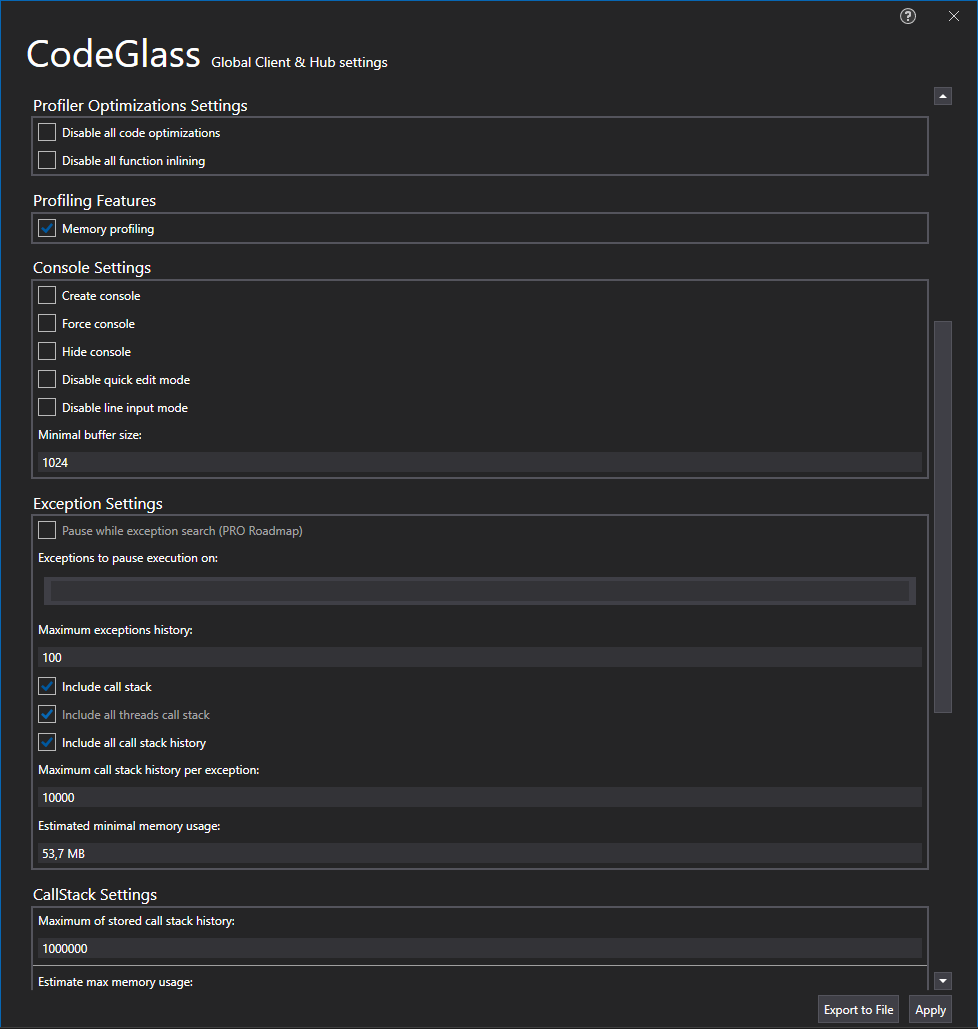
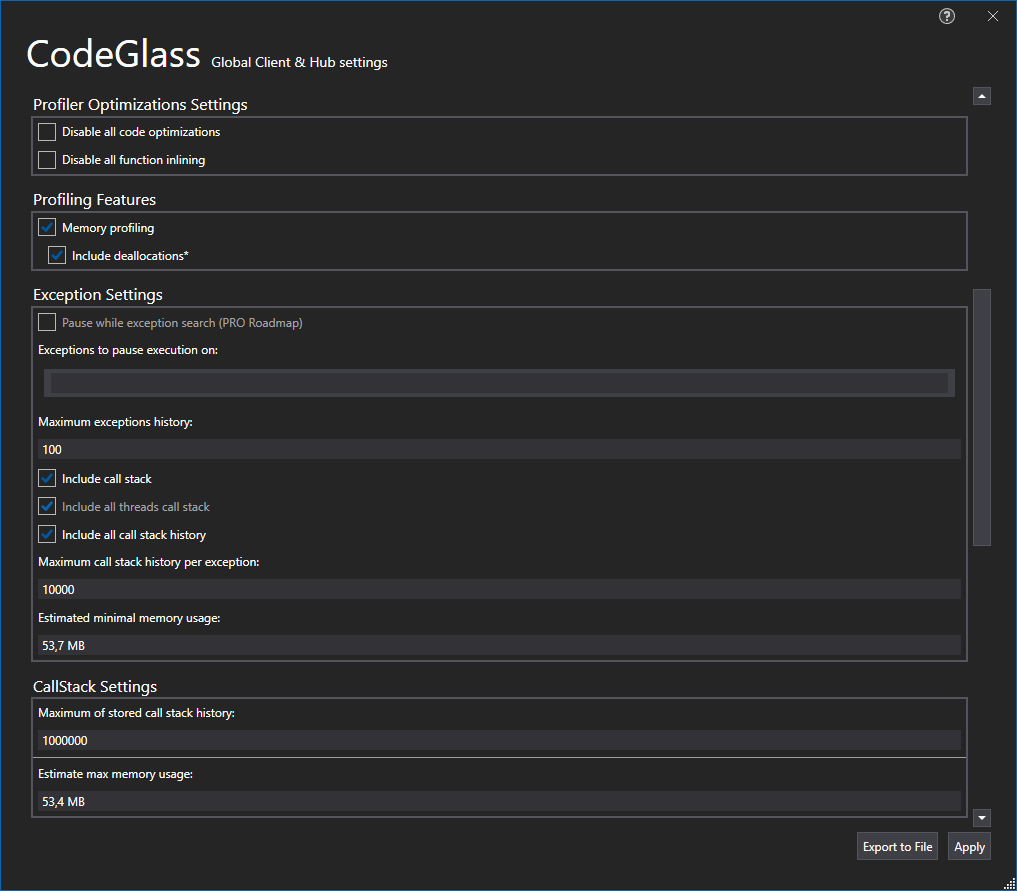
Update for garbage collection optional setting

diff --git a/_docs/views/ApplicationSettingsWindow.md b/_docs/views/ApplicationSettingsWindow.md
@@ -32,15 +32,14 @@ Here you can also tell CodeGlass to pause right away when starting an applicatio
 ## Profiler Optimizations Settings
 In the profiler optimizations settings you can enable or disable compiler optimizations for your application. Disabling optimizations can make it easier to find your code back the way you have written it, and not what the compiler made from it.
 
+## Profiling Features
+In the profiling features settings you can enable or disable memory profiling. When you have memory profiling enabled you also get the option to include deallocations. When this option is enabled CodeGlass will also collect deallocations and start tracking garbage collections. This option is disabled by default as profiling deallocations might disable concurrent garbage collection in some languages and it can have a significant impact on performance.
+
 ## Exception Settings
 In the exception settings you can set what CodeGlass should do when it profiles and exception. When an exception is profiled, CodeGlass stores this exception with some extra data like a (limited) copy of the callstack at that time. Here you can specify what and how much should be stored.
 
 ## Callstack Settings
 In the callstack settings you can specify how many callstack items CodeGlass should store before overwriting older data. CodeGlass considers every call to a function and every return from a function as a separate callstack item. Increasing the amount of callstack items to store allows you to step further back in the history of your application, but it also makes CodeGlass heavier to run. If your application overwrites the callstack too fast, try applying more filters. This way CodeGlass has to store less callstack items.
-
-<!-- # Application Breadcrumbs:  -->
-<!-- - [Splashscreen](Splashscreen.md) / [Main Menu - Applications](mainwindow/application.md) / [Main Menu - Instances](mainwindow/applicationInstance.md) / -->
-<!-- - [Splashscreen](Splashscreen.md) / [Main Menu - Applications](mainwindow/application.md) / [Main Menu - Instances](mainwindow/applicationInstance.md) /  [Application Instance Window](ApplicationInstanceDockWindow.md) / [File Menu](ApplicationInstanceDockWindow/MenuBar.md#file-menu) / -->
 
 # See Also:
  - [Main Menu - Application instances](mainwindow/applicationInstance.md)

diff --git a/_docs/features/RealtimeDataCollection.md b/_docs/features/RealtimeDataCollection.md
@@ -79,7 +79,7 @@ More information about our memory profiler can be found at the [memory profiling
 ![assets/img/ApplicationInstanceWindow/MemoryStatisticsOverview.png](../../assets/img/ApplicationInstanceWindow/MemoryStatisticsOverview.png)
 
 ## Garbage Collection Invocations
-Garbage collection invocations is a new feature in CodeGlass and is still under development. Currently, it is available only as an experimental feature in our [Experimental Edition](../Editions/Experimental.md) and at this point it is only supported by the [Julia runtime](supportedruntimes.md#julia).
+Garbage collection invocations is a new feature in CodeGlass and is still under development. Currently, it is available only as an experimental feature in our [Experimental Edition](../Editions/Experimental.md) and at this point it is only supported by the [Julia](supportedruntimes.md#julia) and [.NET](supportedruntimes.md#net-framework) runtimes.
 
 If your applications creates a lot of memory, garbage collection can take a lot of time and significantly slow your application down. To be able to track these kind of issues down CodeGlass will track every garbage collection that gets triggered by your application. 
 
@@ -89,7 +89,7 @@ We collect various garbage collection related data, including:
 - How much memory was deallocated during this garbage collection.
 - Every object that was deallocated and the function that that piece of memory was originally allocated in.
 
-More information about garbage collection information can be found at the [garbage collection feature page](GarbageCollection)
+More information about garbage collection information can be found at the [garbage collection feature page](GarbageCollection).
 <br>
 
 ![assets/img/ApplicationInstanceWindow/GarbageCollectionInvokedWindow.png](../../assets/img/ApplicationInstanceWindow/GarbageCollectionInvokedWindow.png)

diff --git a/_docs/features/GarbageCollection.md b/_docs/features/GarbageCollection.md
@@ -8,7 +8,7 @@ description: The tracking of every executed garbage collection
 
 This feature allows you to gain insights into what your application does during garbage collection. This can help you track down objects that do not get removed or find objects that get removed to fast.
 
-{% include alert.html  type="warning" title="Limited support" content="At this point the only language to support this feature is Julia, but more will be added soon." %}
+{% include alert.html  type="warning" title="Limited support" content="At this point the only languages to support this feature are Julia and .NET, but more will be added soon." %}
 
 ## Garbage Collection Invocations Explorer
 The garbage collection invocations explorer shows you all the rounds of garbage collection that have occurred during the execution of your application. This allows you to quickly see if your application is running more or less rounds of garbage collection than you expected.

diff --git a/_docs/views/clientusersettingswindow.md b/_docs/views/clientusersettingswindow.md
@@ -41,11 +41,6 @@ Right now there is only one hub specific setting. This is the option for if you 
 
 ![assets/img/ClientUserSettingsWindow/ClientSettingsHub.png](../../assets/img/ClientUserSettingsWindow/ClientSettingsHub.png)
 
-<!-- # Application Breadcrumbs: 
-- [Splashscreen](Splashscreen.md) / [Main Menu](mainwindow.md)
-- [Splashscreen](Splashscreen.md) / [Main Menu - Applications](mainwindow/application.md) / [Main Menu - Instances](mainwindow/applicationInstance.md) /  [Application Instance Window](ApplicationInstanceDockWindow.md) / [File Menu](ApplicationInstanceDockWindow/MenuBar.md#file-menu) / -->
-
 # See Also:
  - [Main Window](mainwindow.md)
  - [Application Instance Window - File Menu](ApplicationInstanceDockWindow/MenuBar.md#file-menu)
-
